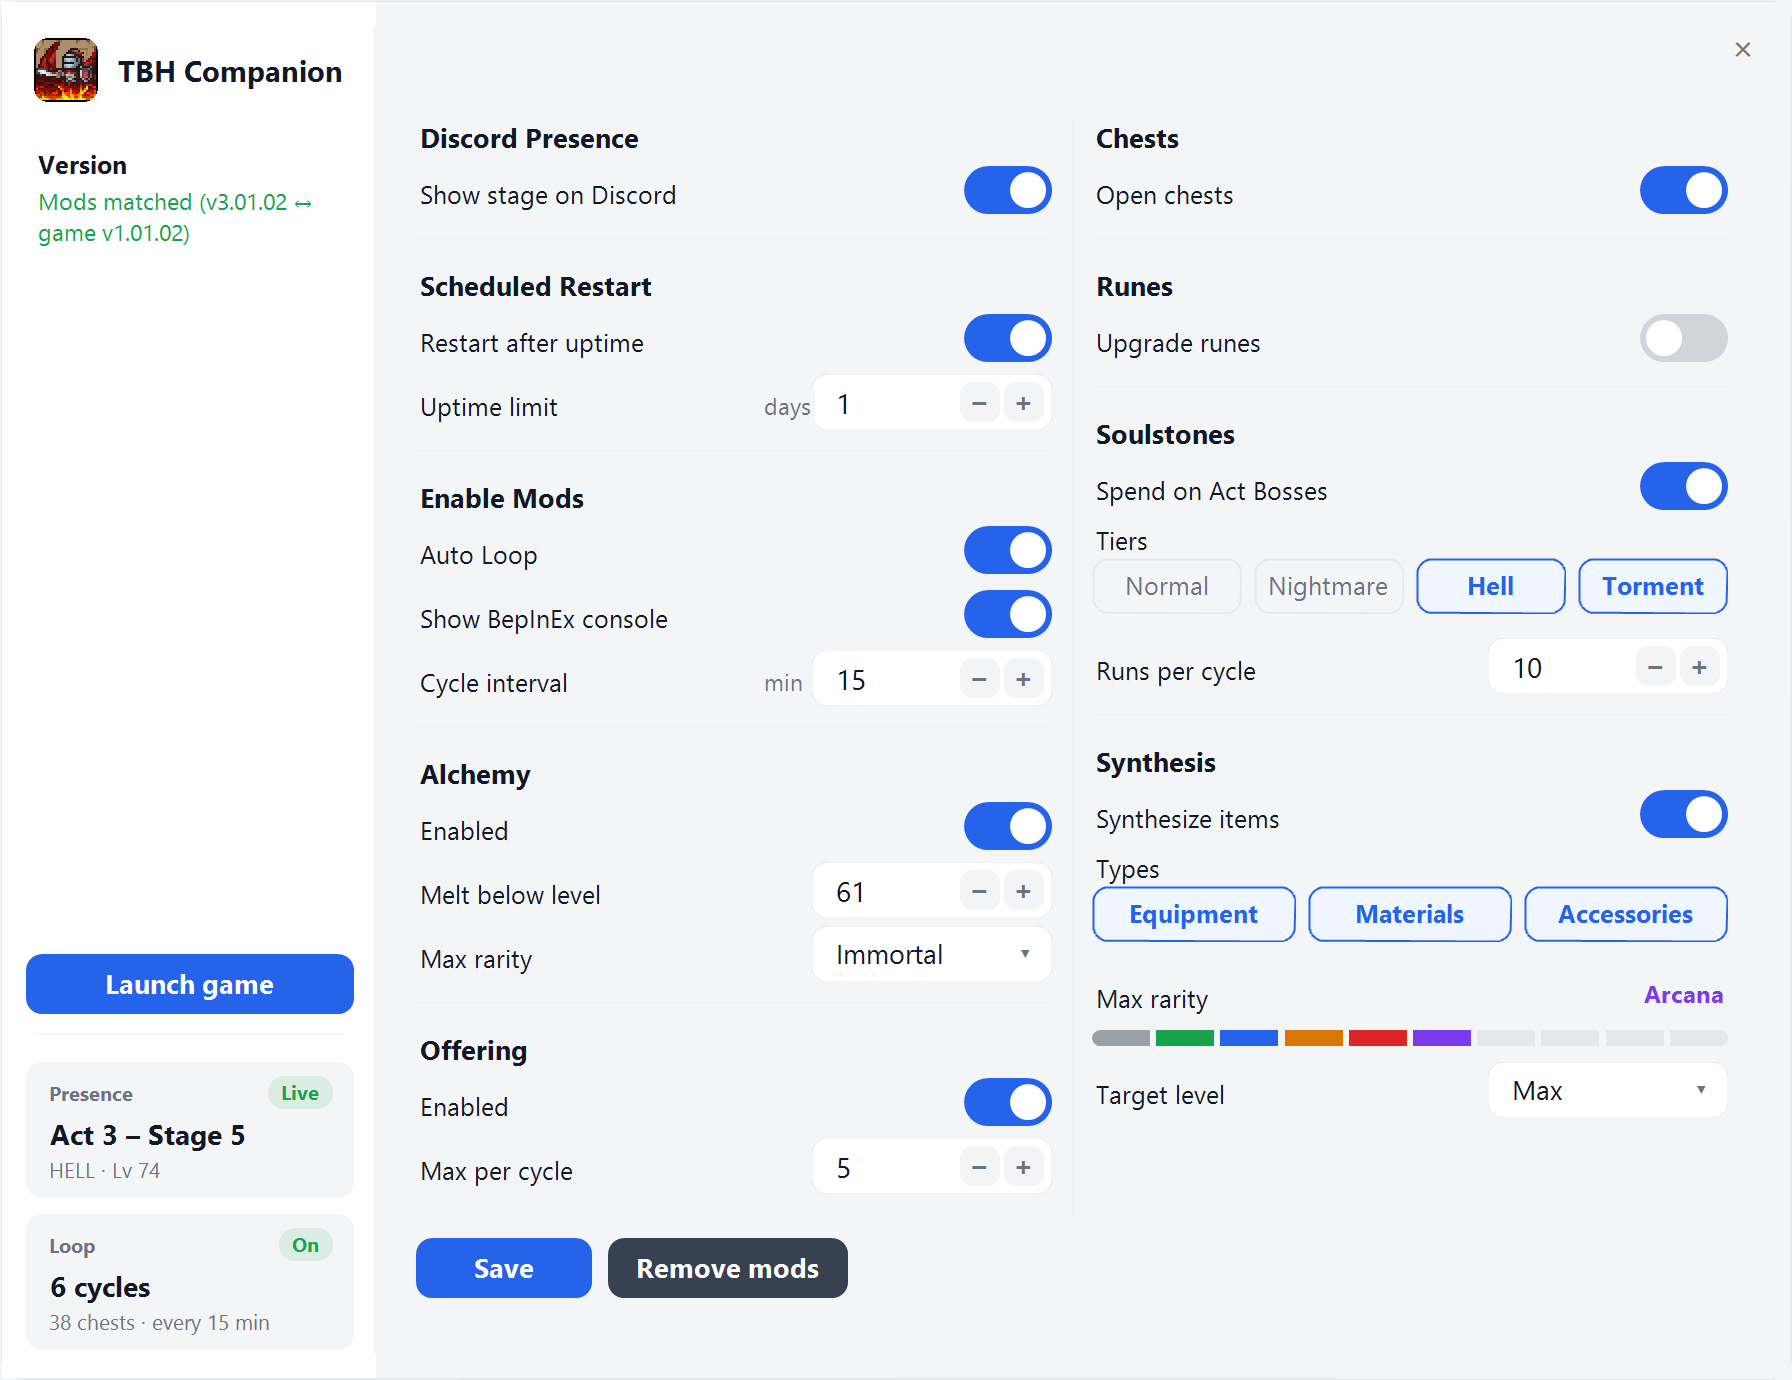
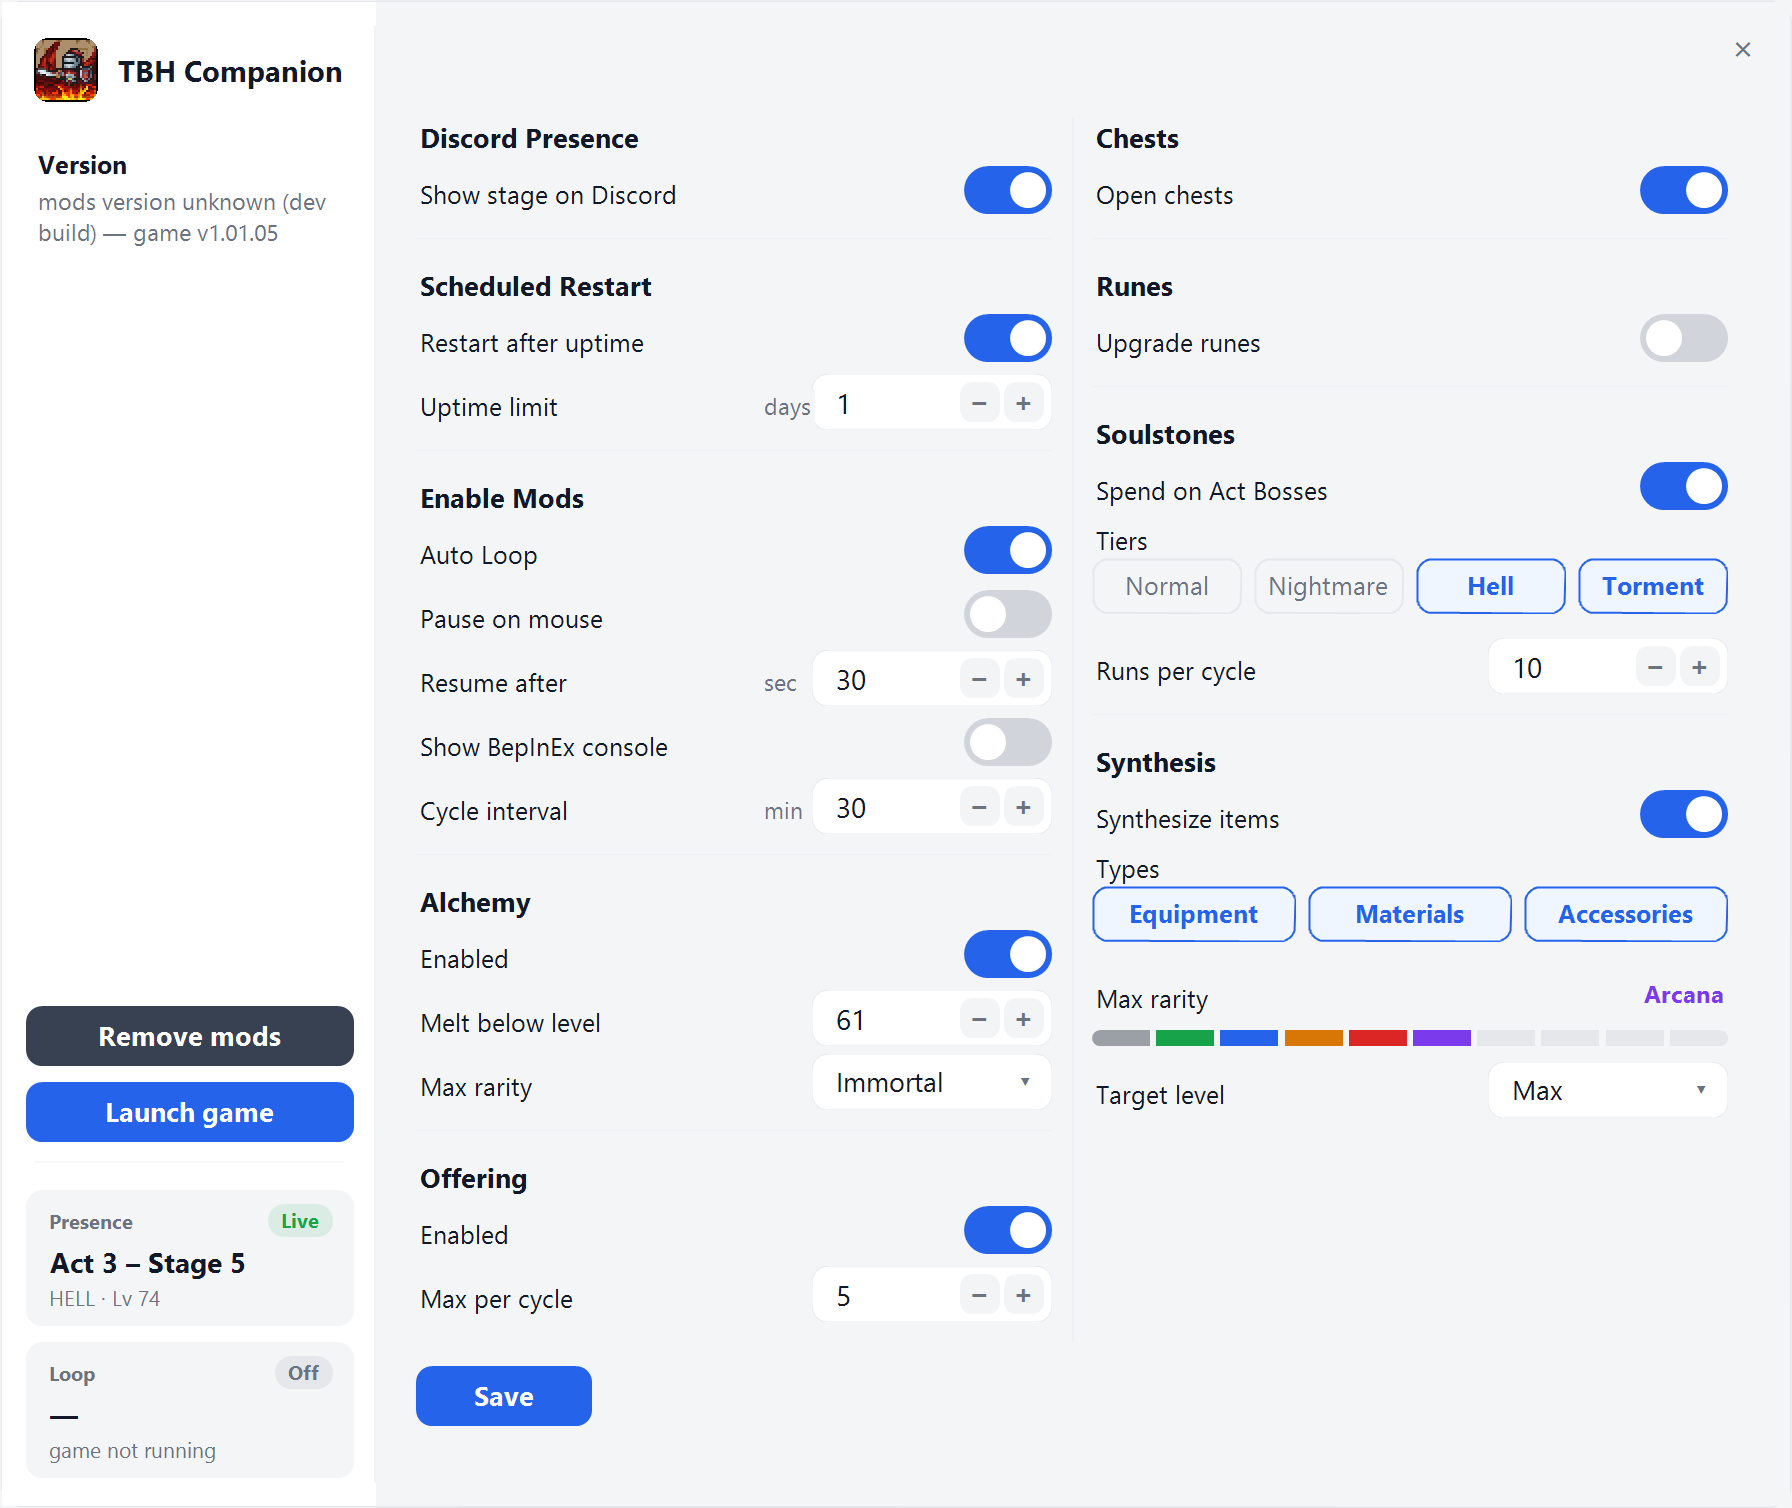
feat(companion): move Install/Remove mods above Launch game
Puts setup next to Launch on the left rail so install/remove then play is one place.

diff --git a/src/StatusForm.cs b/src/StatusForm.cs
@@ -68,8 +68,7 @@ namespace TbhCompanion
         readonly Timer _timer;
         string _cfgPath, _bepinexCfgPath;
         bool _modOpRunning;          // install or remove in flight
-        bool _modsLayoutReady;
-        bool _modsPresent;
+        string _modOpNote;           // last progress/error from the background op
         bool _verCheckRunning;       // background release lookup in flight
         bool _updateOpRunning;       // self-update download in flight
         DateTime _verCheckedAt = DateTime.MinValue;
@@ -96,7 +95,7 @@ namespace TbhCompanion
         Label _rarityValue;
         Stepper _cycleMin, _restartDays, _alchemyLevel, _offeringMax, _actBossRuns, _idleSec;
         FlatDrop _desiredLevel, _alchemyRarity;
-        FlatButton _saveBtn, _setupBtn, _removeBtn, _launchBtn, _updateBtn;
+        FlatButton _saveBtn, _modsBtn, _launchBtn, _updateBtn;
         Label _cfgNote, _verNote;
         readonly ToolTip _verTip = new ToolTip();
 
@@ -167,23 +166,45 @@ namespace TbhCompanion
 
             // Live status at the bottom: Presence + Synth/cycles as compact cards.
             int rows = Build.Synth ? 2 : 1;
-            int statusH = rows * 68 + (rows - 1) * 8;
             _live = new LiveStrip { Columns = rows };
-            _live.SetBounds(Sc(12), _side.Height - Sc(14 + statusH), Sc(SideW - 24), Sc(statusH));
             _live.SetRow(0, "Presence", "—", "", "Off", Theme.TextMuted);
             if (Build.Synth)
                 _live.SetRow(1, "Loop", "—", "", "Off", Theme.TextMuted);
             _side.Controls.Add(_live);
 
-            // Launch sits just above the status rule.
-            const int launchH = 30;
+            // Launch sits just above the status rule. Synth edition stacks
+            // Install/Remove mods directly above it (setup → play).
             _launchBtn = new FlatButton { Text = "Launch game", Fill = Theme.Accent };
-            _launchBtn.SetBounds(Sc(12), _live.Top - Sc(14 + 10 + launchH), Sc(SideW - 24), Sc(launchH));
             _launchBtn.Click += delegate { LaunchGame(); };
             _side.Controls.Add(_launchBtn);
             RefreshLaunchButton();
 
+            if (Build.Synth)
+            {
+                _modsBtn = new FlatButton { Fill = Theme.Secondary };
+                _modsBtn.Click += delegate
+                {
+                    if (BepInExSetup.HasRemnants()) RunRemove();
+                    else RunSetup();
+                };
+                _side.Controls.Add(_modsBtn);
+                RefreshModsButton();
+            }
+
+            PinSideBottom();
             AddVersionBlock();
+        }
+
+        // Pins status cards, Launch, and (synth) mods to the rail's bottom edge.
+        void PinSideBottom()
+        {
+            int rows = Build.Synth ? 2 : 1;
+            int statusH = rows * 68 + (rows - 1) * 8;
+            _live.SetBounds(Sc(12), _side.Height - Sc(14 + statusH), Sc(SideW - 24), Sc(statusH));
+            const int btnH = 30;
+            _launchBtn.SetBounds(Sc(12), _live.Top - Sc(14 + 10 + btnH), Sc(SideW - 24), Sc(btnH));
+            if (_modsBtn != null)
+                _modsBtn.SetBounds(Sc(12), _launchBtn.Top - Sc(8 + btnH), Sc(SideW - 24), Sc(btnH));
         }
 
         void PaintSide(object sender, PaintEventArgs e)
@@ -428,23 +449,11 @@ namespace TbhCompanion
             _saveBtn.Click += delegate { SaveConfig(); };
             AddContent(_saveBtn);
 
-            _removeBtn = new FlatButton { Text = "Remove mods", Fill = Theme.Secondary };
-            _removeBtn.SetBounds(Sc(Col0X + 96), Sc(y), Sc(120), Sc(30));
-            _removeBtn.Click += delegate { RunRemove(); };
-            _removeBtn.Visible = false;
-            AddContent(_removeBtn);
-
-            _setupBtn = new FlatButton { Text = "Install mods", Fill = Theme.Secondary };
-            _setupBtn.SetBounds(Sc(Col0X), Sc(y), Sc(120), Sc(30));
-            _setupBtn.Click += delegate { RunSetup(); };
-            _setupBtn.Visible = false;
-            AddContent(_setupBtn);
-
             _cfgNote = new Label
             {
                 AutoSize = false,
-                Location = new Point(Sc(Col0X + 228), Sc(y)),
-                Size = new Size(Sc(Col1X + ColW - (Col0X + 228)), Sc(30)),
+                Location = new Point(Sc(Col0X + 96), Sc(y)),
+                Size = new Size(Sc(Col1X + ColW - (Col0X + 96)), Sc(30)),
                 ForeColor = Theme.TextMuted,
                 BackColor = Theme.FormBg,
                 Font = Theme.F(8.5f, FontStyle.Regular),
@@ -453,7 +462,6 @@ namespace TbhCompanion
             AddContent(_cfgNote);
 
             EndContent(y + 30);
-            RefreshModsRow(forceLayout: true);
         }
 
         int AddSectionHeader(string title, int colX, int y)
@@ -692,27 +700,12 @@ namespace TbhCompanion
             return y + RowH;
         }
 
-        void RefreshModsRow(bool forceLayout = false)
+        void RefreshModsButton()
         {
-            bool present = BepInExSetup.HasRemnants();
-            _setupBtn.Visible = !present;
-            _saveBtn.Visible = present;
-            _removeBtn.Visible = present;
-            if (!forceLayout && _modsLayoutReady && _modsPresent == present) return;
-            _modsLayoutReady = true;
-            _modsPresent = present;
-            int y = _cfgNote.Top;
-            int right = Col1X + ColW;
-            if (present)
-            {
-                _cfgNote.Location = new Point(Sc(Col0X + 228), y);
-                _cfgNote.Size = new Size(Sc(right - (Col0X + 228)), Sc(30));
-            }
-            else
-            {
-                _cfgNote.Location = new Point(Sc(Col0X + 128), y);
-                _cfgNote.Size = new Size(Sc(right - (Col0X + 128)), Sc(30));
-            }
+            if (_modsBtn == null || _modOpRunning) return;
+            _modsBtn.Enabled = true;
+            _modsBtn.Text = BepInExSetup.HasRemnants() ? "Remove mods" : "Install mods";
+            _modsBtn.Invalidate();
         }
 
         // ---- helpers ----
@@ -786,7 +779,7 @@ namespace TbhCompanion
                 "  - downloading BepInEx (the mod loader, ~35 MB)\n" +
                 "  - installing it into the TaskBarHero folder\n\n" +
                 "The presence feature is unaffected. Continue?",
-                delegate { _setupBtn.Enabled = false; },
+                "Installing…",
                 BepInExSetup.Install);
         }
 
@@ -796,11 +789,11 @@ namespace TbhCompanion
                 "Remove mods",
                 "This will remove mods by deleting BepInEx from the TaskBarHero folder.\n\n" +
                 "Your save and Discord presence are unaffected. Continue?",
-                delegate { _saveBtn.Enabled = false; _removeBtn.Enabled = false; },
+                "Removing…",
                 BepInExSetup.Uninstall);
         }
 
-        void ConfirmAndRunModOp(string title, string body, Action onBusy, Func<Action<string>, bool> work)
+        void ConfirmAndRunModOp(string title, string body, string busyLabel, Func<Action<string>, bool> work)
         {
             if (_modOpRunning) return;
             if (!BepInExSetup.GameFound)
@@ -819,24 +812,24 @@ namespace TbhCompanion
                 return;
 
             _modOpRunning = true;
-            onBusy();
-            _cfgNote.Text = "working...";
+            _modOpNote = null;
+            if (_modsBtn != null)
+            {
+                _modsBtn.Enabled = false;
+                _modsBtn.Text = busyLabel;
+                _modsBtn.Invalidate();
+            }
+            RefreshLaunchButton();
             var t = new System.Threading.Thread(delegate()
             {
-                bool success = work(delegate(string s) { PostNote(s); });
-                PostModOpDone(success);
+                work(delegate(string s) { _modOpNote = s; });
+                PostModOpDone();
             });
             t.IsBackground = true;
             t.Start();
         }
 
-        void PostNote(string s)
-        {
-            try { if (!IsDisposed) BeginInvoke((Action)delegate { _cfgNote.Text = s; }); }
-            catch { }
-        }
-
-        void PostModOpDone(bool success)
+        void PostModOpDone()
         {
             try
             {
@@ -844,13 +837,12 @@ namespace TbhCompanion
                 BeginInvoke((Action)delegate
                 {
                     _modOpRunning = false;
-                    _setupBtn.Enabled = true;
-                    _removeBtn.Enabled = true;
-                    string note = _cfgNote.Text;
+                    string note = _modOpNote;
                     LoadConfig();
-                    if (!success && !string.IsNullOrEmpty(note) && note != "working...")
+                    if (!string.IsNullOrEmpty(note))
                         _cfgNote.Text = note;
-                    RefreshModsRow(forceLayout: true);
+                    RefreshModsButton();
+                    RefreshLaunchButton();
                     EnsureVersionCheck(true);
                 });
             }
@@ -891,6 +883,11 @@ namespace TbhCompanion
                 _launchBtn.Text = "Launch game";
                 _launchBtn.Invalidate();
             }
+            if (_modsBtn != null)
+            {
+                _modOpRunning = false;
+                RefreshModsButton();
+            }
             GrowToFitContent();
         }
 
@@ -914,12 +911,7 @@ namespace TbhCompanion
             _main.Size = new Size(_main.Width, Height - 2 * b);
             _scroll.Size = new Size(_main.Width, _main.Height - Sc(TopChrome));
 
-            // Side panel pins its status cards and Launch button to the bottom edge.
-            int rows = Build.Synth ? 2 : 1;
-            int statusH = rows * 68 + (rows - 1) * 8;
-            _live.SetBounds(Sc(12), _side.Height - Sc(14 + statusH), Sc(SideW - 24), Sc(statusH));
-            const int launchH = 30;
-            _launchBtn.SetBounds(Sc(12), _live.Top - Sc(14 + 10 + launchH), Sc(SideW - 24), Sc(launchH));
+            PinSideBottom();
 
             FinishContent();
             ApplyRegion();
@@ -972,7 +964,7 @@ namespace TbhCompanion
 
             if (!Build.Synth) return;
 
-            if (!_modOpRunning) RefreshModsRow();
+            if (!_modOpRunning) RefreshModsButton();
 
             try
             {
